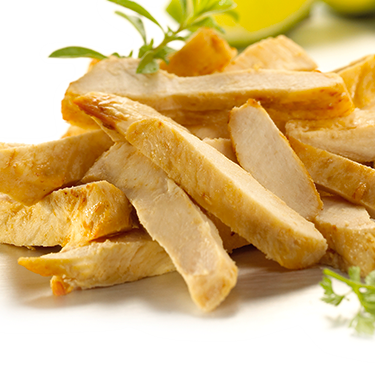
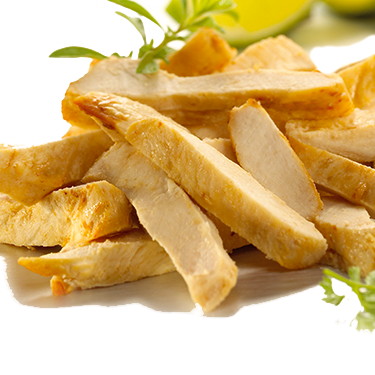
added preview images and updated JSON files

diff --git a/src/data/model/ingredient.ts b/src/data/model/ingredient.ts
@@ -4,4 +4,5 @@ export type ingredient = {
   price: number;
   imgUrl: string;
   previewUrl: string;
+  previewOnTop?: boolean;
 };
